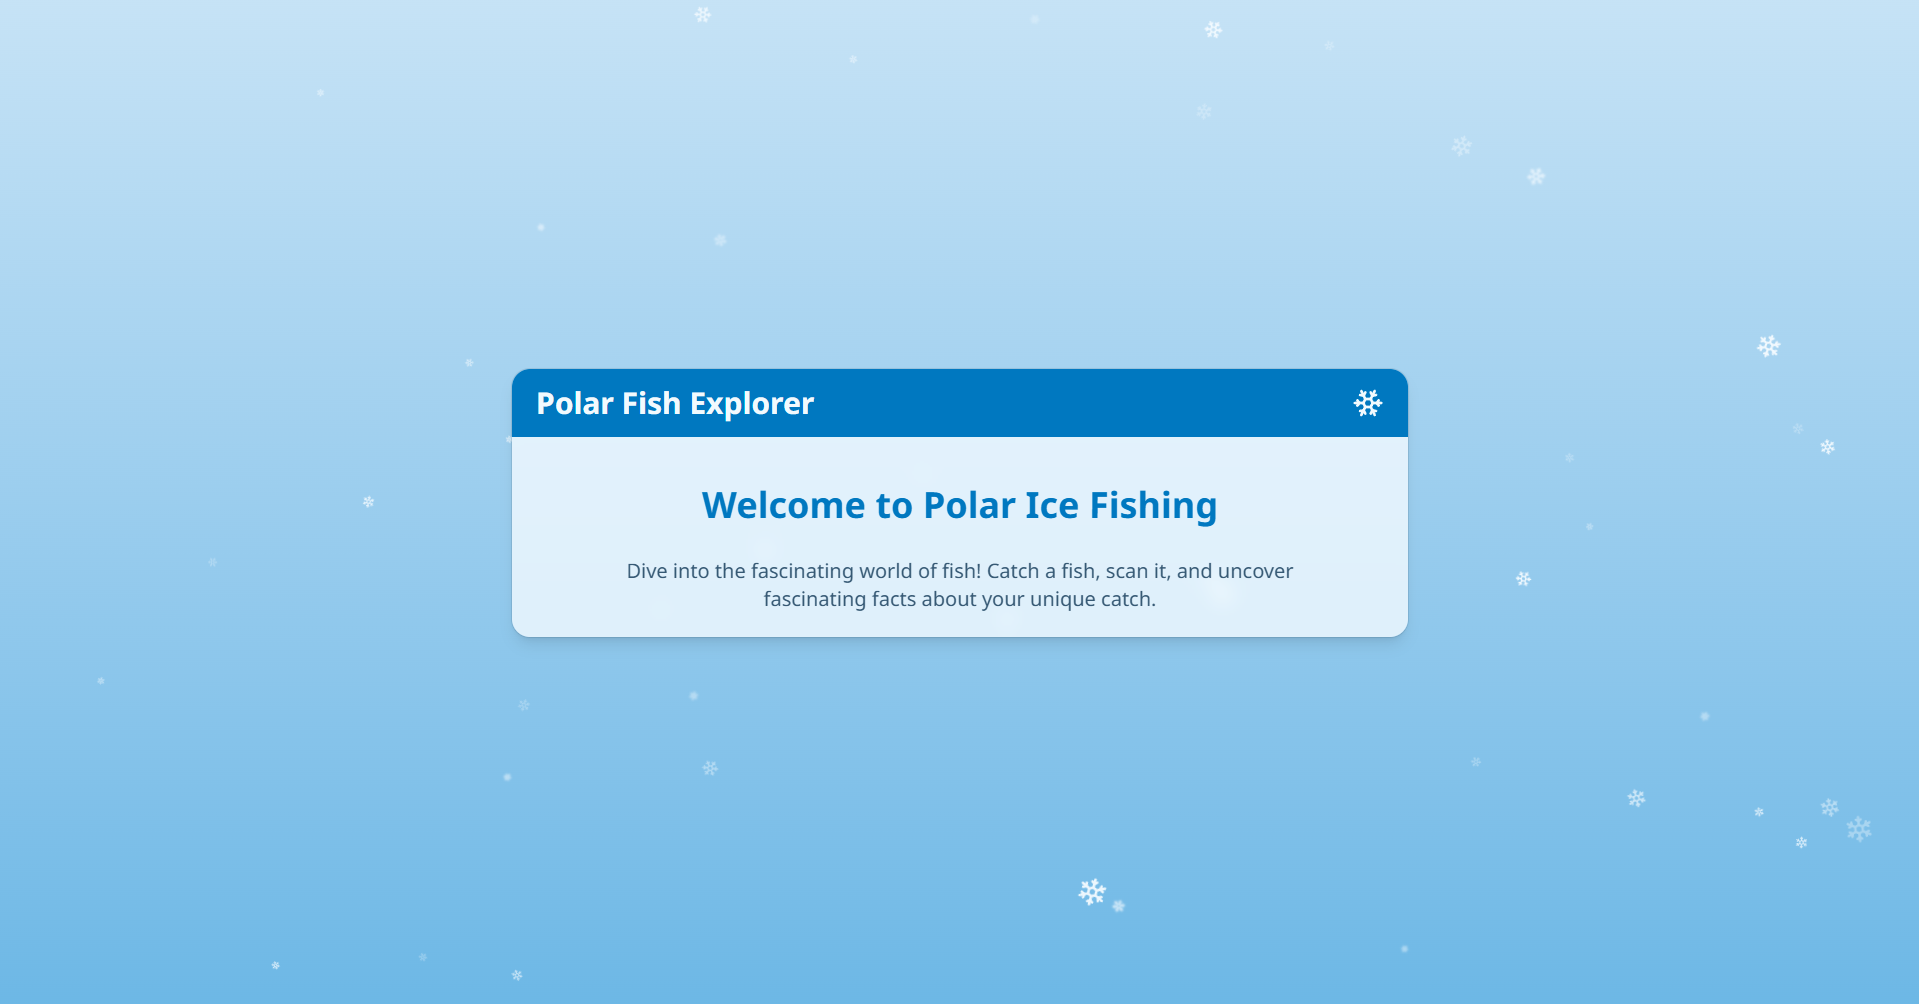
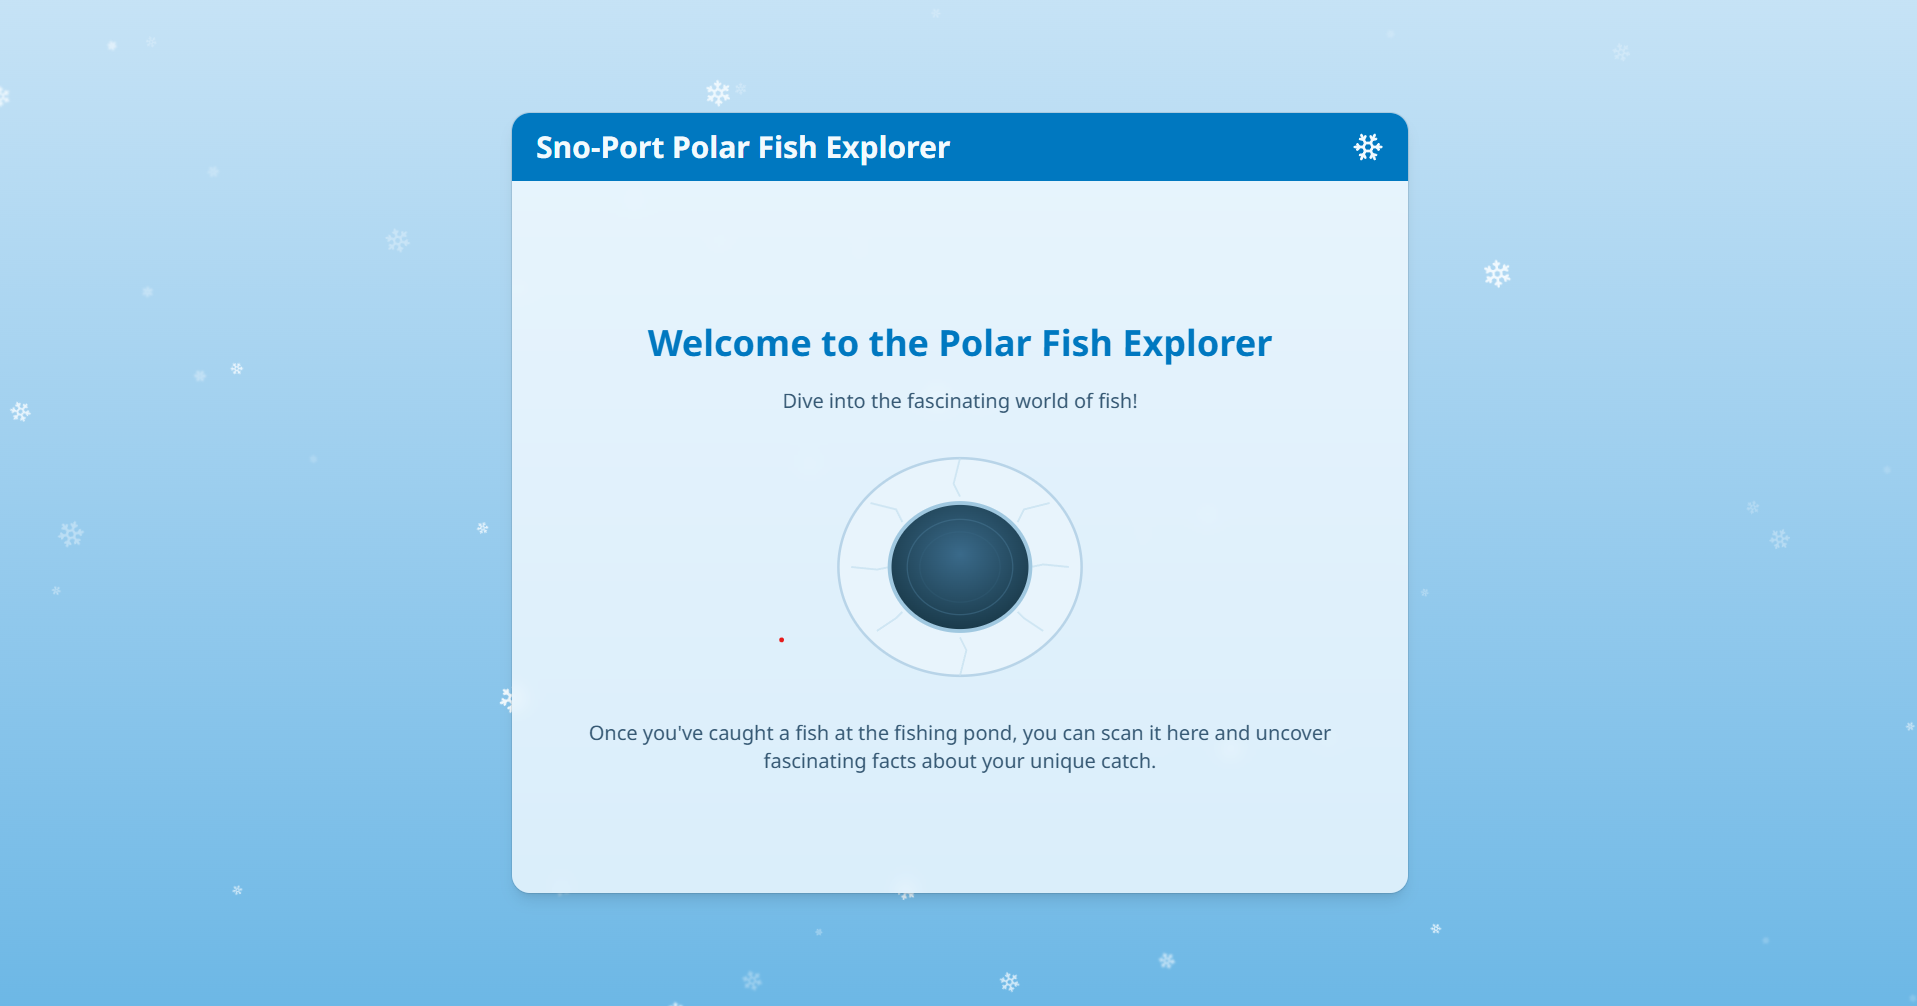
update default view and readme

diff --git a/src/App.tsx b/src/App.tsx
@@ -1,4 +1,5 @@
 import { Weight, Clock, Home, Utensils, Ruler, Sparkles, Snowflake } from "lucide-react";
+import { AnimatePresence, motion } from "motion/react";
 import { Fish } from "@/hooks/use-fish-scanner";
 import { SnowfallBackground } from "@/components/snowfall-background";
 import { Card, CardContent, CardHeader, CardTitle } from "@/components/ui/card";
@@ -8,14 +9,37 @@ import { FishEndangeredStatusBadge } from "@/components/fish-endangered-status-b
 import { useFishScanner } from "@/hooks/use-fish-scanner";
 import { useFullscreenOnMount } from "@/hooks/use-fullscreen-on-mount";
 
-interface DisplayFishViewProps {
+const animation = {
+  initial: { opacity: 0, scale: 0.8 },
+  animate: { opacity: 1, scale: 1 },
+  exit: { opacity: 0, scale: 0.9 },
+  transition: { type: "spring" as const, damping: 18, stiffness: 350 },
+};
+
+function WaitingForFishContent() {
+  return (
+    <div className="flex flex-col items-center justify-center min-h-160 space-y-6">
+      <h2 className="text-4xl font-bold text-primary">Welcome to the Polar Fish Explorer </h2>
+      <p className="text-xl text-muted-foreground text-center max-w-3xl">
+        Dive into the fascinating world of fish!
+      </p>
+      <img src="/ice-hole.svg" alt="Ice fishing hole" className="w-64 h-64" />
+      <p className="text-xl text-muted-foreground text-center max-w-3xl">
+        Once you've caught a fish at the fishing pond, you can scan it here and uncover fascinating
+        facts about your unique catch.
+      </p>
+    </div>
+  );
+}
+
+interface FishDisplayContentProps {
   fish: Fish;
 }
 
-function DisplayFishView({ fish }: DisplayFishViewProps) {
+function FishDisplayContent({ fish }: FishDisplayContentProps) {
   return (
     <div className="grid grid-cols-1 lg:grid-cols-2 gap-6">
-      <div className="space-y-6">
+      <div className="space-y-6 min-h-160">
         <h2 className="text-3xl font-bold text-primary border-b-2 border-border pb-2">
           {fish.name}
         </h2>
@@ -52,32 +76,20 @@ function DisplayFishView({ fish }: DisplayFishViewProps) {
         </div>
       </div>
       <div className="flex flex-col space-y-4">
-        <div className="w-full h-80 bg-secondary rounded-lg overflow-hidden relative shadow-lg">
+        <Card className="w-full h-80 overflow-hidden relative p-0">
           <img src={fish.image_path} alt={fish.name} className="w-full h-full object-cover" />
           <div className="absolute inset-0 bg-linear-to-t from-primary/50 to-transparent"></div>
-        </div>
-        <div className="bg-accent p-4 rounded-lg shadow-inner">
-          <p className="text-sm text-accent-foreground italic">{fish.blurb}</p>
-        </div>
+        </Card>
+        <Card className="p-4">
+          <p className="text-sm text-muted-foreground italic">{fish.blurb}</p>
+        </Card>
       </div>
     </div>
   );
 }
 
-function WaitingForFishView() {
-  return (
-    <div className="flex flex-col items-center justify-center h-full space-y-8">
-      <h2 className="text-4xl font-bold text-primary">Welcome to Polar Ice Fishing</h2>
-      <p className="text-xl text-muted-foreground text-center max-w-2xl">
-        Dive into the fascinating world of fish! Catch a fish, scan it, and uncover fascinating
-        facts about your unique catch.
-      </p>
-    </div>
-  );
-}
-
 function App() {
-  const { fish } = useFishScanner({ displayDurationSeconds: 10, debugKey: "a" });
+  const { fish } = useFishScanner({ displayDurationSeconds: 10, debugKey: "f" });
   useFullscreenOnMount({ enabled: import.meta.env.PROD });
 
   return (
@@ -86,12 +98,22 @@ function App() {
       <Card className="w-full max-w-4xl bg-card/80 backdrop-blur-sm shadow-lg overflow-hidden border-4 border-none z-10 py-0">
         <CardHeader className="bg-primary text-primary-foreground py-4 rounded-none">
           <CardTitle className="text-3xl font-bold flex items-center justify-between">
-            <span>Polar Fish Explorer</span>
+            <span>Sno-Port Polar Fish Explorer</span>
             <Snowflake className="w-8 h-8" />
           </CardTitle>
         </CardHeader>
-        <CardContent className="p-6">
-          {fish ? <DisplayFishView fish={fish} /> : <WaitingForFishView />}
+        <CardContent className="p-6 relative overflow-hidden">
+          <AnimatePresence mode="wait">
+            {fish ? (
+              <motion.div key="fish-display" {...animation}>
+                <FishDisplayContent fish={fish} />
+              </motion.div>
+            ) : (
+              <motion.div key="waiting" {...animation}>
+                <WaitingForFishContent />
+              </motion.div>
+            )}
+          </AnimatePresence>
         </CardContent>
       </Card>
     </div>
